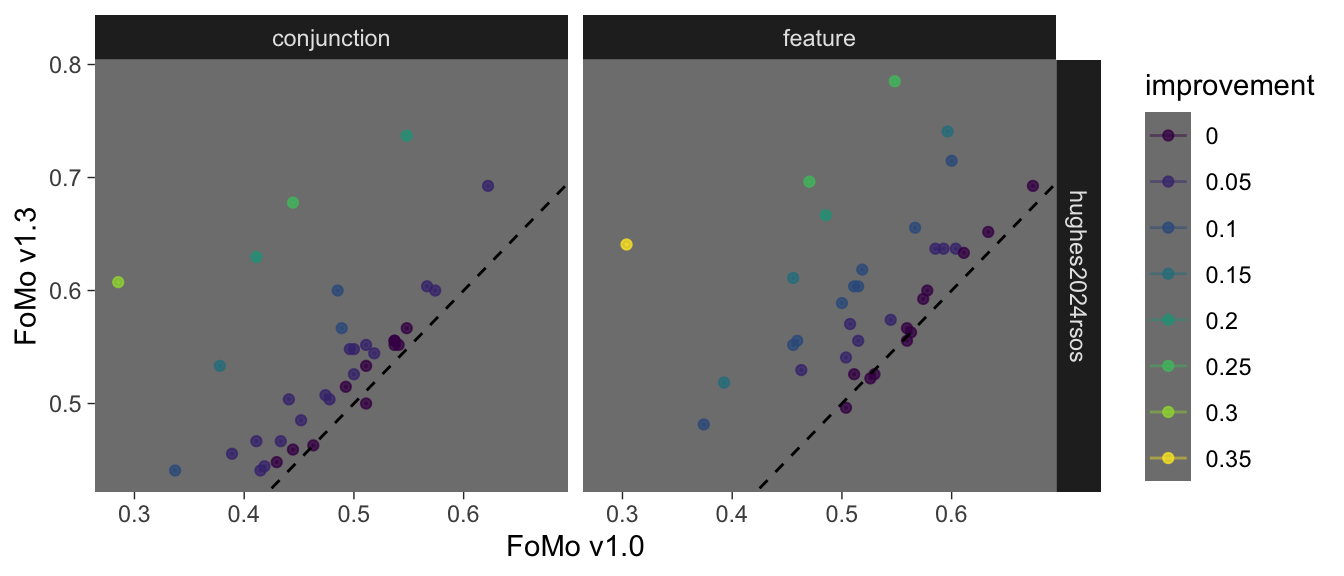
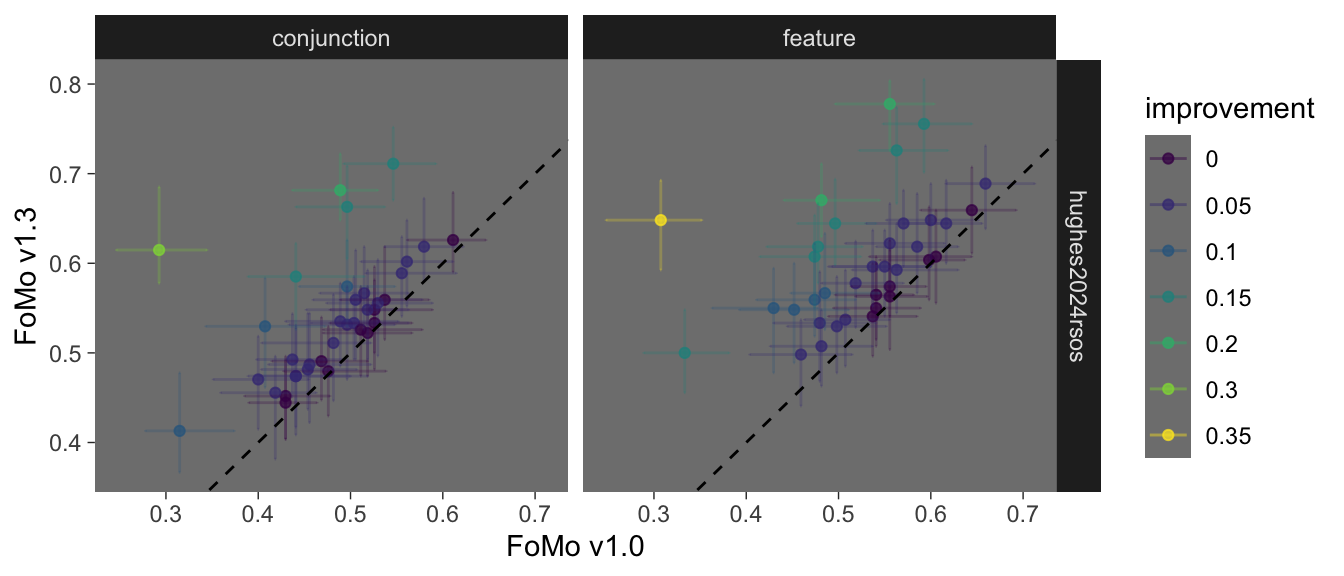
editing acc plot to stat_interval

diff --git a/examples/2_report_results.html b/examples/2_report_results.html
@@ -166,20 +166,12 @@ pre > code.sourceCode > span > a:first-child::before { text-decoration: underlin
 <span id="cb5-6"><a href="#cb5-6" aria-hidden="true" tabindex="-1"></a>  plt <span class="ot">&lt;-</span> <span class="fu">plot_model_accuracy_comparison</span>(ds, v1, v2, <span class="at">scratch_folder =</span> sf) </span>
 <span id="cb5-7"><a href="#cb5-7" aria-hidden="true" tabindex="-1"></a>  <span class="fu">print</span>(plt)</span>
 <span id="cb5-8"><a href="#cb5-8" aria-hidden="true" tabindex="-1"></a>}</span></code><button title="Copy to Clipboard" class="code-copy-button"><i class="bi"></i></button></pre></div>
-<div class="cell-output cell-output-stderr">
-<pre><code>Warning: Removed 2 rows containing missing values or values outside the scale range
-(`geom_point()`).</code></pre>
-</div>
 <div class="cell-output-display">
 <div>
 <figure class="figure">
 <p><img src="2_report_results_files/figure-html/unnamed-chunk-5-1.png" class="img-fluid figure-img" width="672"></p>
 </figure>
 </div>
-</div>
-<div class="cell-output cell-output-stderr">
-<pre><code>Warning: Removed 7 rows containing missing values or values outside the scale range
-(`geom_point()`).</code></pre>
 </div>
 <div class="cell-output-display">
 <div>
@@ -201,18 +193,18 @@ pre > code.sourceCode > span > a:first-child::before { text-decoration: underlin
 <h2 class="anchored" data-anchor-id="accuracy-throughout-a-trial">Accuracy throughout a trial</h2>
 <p>For model 1.3?</p>
 <div class="cell">
-<div class="sourceCode cell-code" id="cb8"><pre class="sourceCode r code-with-copy"><code class="sourceCode r"><span id="cb8-1"><a href="#cb8-1" aria-hidden="true" tabindex="-1"></a><span class="cf">for</span> (ds <span class="cf">in</span> datasets) {</span>
-<span id="cb8-2"><a href="#cb8-2" aria-hidden="true" tabindex="-1"></a>  folder <span class="ot">&lt;-</span> <span class="fu">paste0</span>(sf, <span class="st">"/post/"</span>, ds, <span class="st">"/"</span>)</span>
-<span id="cb8-3"><a href="#cb8-3" aria-hidden="true" tabindex="-1"></a>  pred <span class="ot">&lt;-</span> <span class="fu">readRDS</span>(<span class="fu">paste0</span>(folder, <span class="st">"pred_1_3.rds"</span>))</span>
-<span id="cb8-4"><a href="#cb8-4" aria-hidden="true" tabindex="-1"></a>  </span>
-<span id="cb8-5"><a href="#cb8-5" aria-hidden="true" tabindex="-1"></a>  pred<span class="sc">$</span>itemwise <span class="sc">%&gt;%</span> </span>
-<span id="cb8-6"><a href="#cb8-6" aria-hidden="true" tabindex="-1"></a>    <span class="fu">group_by</span>(condition, found, .draw, person) <span class="sc">%&gt;%</span></span>
-<span id="cb8-7"><a href="#cb8-7" aria-hidden="true" tabindex="-1"></a>    <span class="fu">summarise</span>(<span class="at">person_acc =</span> <span class="fu">mean</span>(model_correct), <span class="at">.groups =</span> <span class="st">"drop_last"</span>) <span class="sc">%&gt;%</span></span>
-<span id="cb8-8"><a href="#cb8-8" aria-hidden="true" tabindex="-1"></a>    <span class="fu">summarise</span>(<span class="at">accuracy =</span> <span class="fu">mean</span>(person_acc), <span class="at">.groups =</span> <span class="st">"drop_last"</span>) <span class="ot">-&gt;</span> acc</span>
-<span id="cb8-9"><a href="#cb8-9" aria-hidden="true" tabindex="-1"></a>  </span>
-<span id="cb8-10"><a href="#cb8-10" aria-hidden="true" tabindex="-1"></a>  plt_acc <span class="ot">&lt;-</span> <span class="fu">plot_model_accuracy</span>(acc)</span>
-<span id="cb8-11"><a href="#cb8-11" aria-hidden="true" tabindex="-1"></a>  <span class="fu">print</span>(plt_acc)</span>
-<span id="cb8-12"><a href="#cb8-12" aria-hidden="true" tabindex="-1"></a>}</span></code><button title="Copy to Clipboard" class="code-copy-button"><i class="bi"></i></button></pre></div>
+<div class="sourceCode cell-code" id="cb6"><pre class="sourceCode r code-with-copy"><code class="sourceCode r"><span id="cb6-1"><a href="#cb6-1" aria-hidden="true" tabindex="-1"></a><span class="cf">for</span> (ds <span class="cf">in</span> datasets) {</span>
+<span id="cb6-2"><a href="#cb6-2" aria-hidden="true" tabindex="-1"></a>  folder <span class="ot">&lt;-</span> <span class="fu">paste0</span>(sf, <span class="st">"/post/"</span>, ds, <span class="st">"/"</span>)</span>
+<span id="cb6-3"><a href="#cb6-3" aria-hidden="true" tabindex="-1"></a>  pred <span class="ot">&lt;-</span> <span class="fu">readRDS</span>(<span class="fu">paste0</span>(folder, <span class="st">"pred_1_3.rds"</span>))</span>
+<span id="cb6-4"><a href="#cb6-4" aria-hidden="true" tabindex="-1"></a>  </span>
+<span id="cb6-5"><a href="#cb6-5" aria-hidden="true" tabindex="-1"></a>  pred<span class="sc">$</span>itemwise <span class="sc">%&gt;%</span> </span>
+<span id="cb6-6"><a href="#cb6-6" aria-hidden="true" tabindex="-1"></a>    <span class="fu">group_by</span>(condition, found, .draw, person) <span class="sc">%&gt;%</span></span>
+<span id="cb6-7"><a href="#cb6-7" aria-hidden="true" tabindex="-1"></a>    <span class="fu">summarise</span>(<span class="at">person_acc =</span> <span class="fu">mean</span>(model_correct), <span class="at">.groups =</span> <span class="st">"drop_last"</span>) <span class="sc">%&gt;%</span></span>
+<span id="cb6-8"><a href="#cb6-8" aria-hidden="true" tabindex="-1"></a>    <span class="fu">summarise</span>(<span class="at">accuracy =</span> <span class="fu">mean</span>(person_acc), <span class="at">.groups =</span> <span class="st">"drop_last"</span>) <span class="ot">-&gt;</span> acc</span>
+<span id="cb6-9"><a href="#cb6-9" aria-hidden="true" tabindex="-1"></a>  </span>
+<span id="cb6-10"><a href="#cb6-10" aria-hidden="true" tabindex="-1"></a>  plt_acc <span class="ot">&lt;-</span> <span class="fu">plot_model_accuracy</span>(acc)</span>
+<span id="cb6-11"><a href="#cb6-11" aria-hidden="true" tabindex="-1"></a>  <span class="fu">print</span>(plt_acc)</span>
+<span id="cb6-12"><a href="#cb6-12" aria-hidden="true" tabindex="-1"></a>}</span></code><button title="Copy to Clipboard" class="code-copy-button"><i class="bi"></i></button></pre></div>
 <div class="cell-output-display">
 <div>
 <figure class="figure">
@@ -240,19 +232,19 @@ pre > code.sourceCode > span > a:first-child::before { text-decoration: underlin
 <section id="posterior-density" class="level1">
 <h1>Posterior Density</h1>
 <div class="cell">
-<div class="sourceCode cell-code" id="cb9"><pre class="sourceCode r code-with-copy"><code class="sourceCode r"><span id="cb9-1"><a href="#cb9-1" aria-hidden="true" tabindex="-1"></a>model_ver <span class="ot">&lt;-</span> <span class="st">"1_3"</span></span></code><button title="Copy to Clipboard" class="code-copy-button"><i class="bi"></i></button></pre></div>
+<div class="sourceCode cell-code" id="cb7"><pre class="sourceCode r code-with-copy"><code class="sourceCode r"><span id="cb7-1"><a href="#cb7-1" aria-hidden="true" tabindex="-1"></a>model_ver <span class="ot">&lt;-</span> <span class="st">"1_3"</span></span></code><button title="Copy to Clipboard" class="code-copy-button"><i class="bi"></i></button></pre></div>
 </div>
 <section id="main-parameters" class="level2">
 <h2 class="anchored" data-anchor-id="main-parameters">Main parameters</h2>
 <div class="cell">
-<div class="sourceCode cell-code" id="cb10"><pre class="sourceCode r code-with-copy"><code class="sourceCode r"><span id="cb10-1"><a href="#cb10-1" aria-hidden="true" tabindex="-1"></a><span class="cf">for</span> (ds <span class="cf">in</span> datasets) {</span>
-<span id="cb10-2"><a href="#cb10-2" aria-hidden="true" tabindex="-1"></a>  folder <span class="ot">&lt;-</span> <span class="fu">paste0</span>(sf, <span class="st">"/models/"</span>, ds, <span class="st">"/fit/"</span>)</span>
-<span id="cb10-3"><a href="#cb10-3" aria-hidden="true" tabindex="-1"></a>  m <span class="ot">&lt;-</span> <span class="fu">readRDS</span>(<span class="fu">paste0</span>(folder, model_ver, <span class="st">".model"</span>))</span>
-<span id="cb10-4"><a href="#cb10-4" aria-hidden="true" tabindex="-1"></a>  d <span class="ot">&lt;-</span> <span class="fu">import_data</span>(ds)</span>
-<span id="cb10-5"><a href="#cb10-5" aria-hidden="true" tabindex="-1"></a>  post <span class="ot">&lt;-</span> <span class="fu">extract_post</span>(m, d)</span>
-<span id="cb10-6"><a href="#cb10-6" aria-hidden="true" tabindex="-1"></a>  post_plt <span class="ot">&lt;-</span> <span class="fu">plot_model_fixed</span>(post) <span class="sc">+</span> <span class="fu">ggtitle</span>(ds)</span>
-<span id="cb10-7"><a href="#cb10-7" aria-hidden="true" tabindex="-1"></a>  <span class="fu">print</span>(post_plt)</span>
-<span id="cb10-8"><a href="#cb10-8" aria-hidden="true" tabindex="-1"></a>}</span></code><button title="Copy to Clipboard" class="code-copy-button"><i class="bi"></i></button></pre></div>
+<div class="sourceCode cell-code" id="cb8"><pre class="sourceCode r code-with-copy"><code class="sourceCode r"><span id="cb8-1"><a href="#cb8-1" aria-hidden="true" tabindex="-1"></a><span class="cf">for</span> (ds <span class="cf">in</span> datasets) {</span>
+<span id="cb8-2"><a href="#cb8-2" aria-hidden="true" tabindex="-1"></a>  folder <span class="ot">&lt;-</span> <span class="fu">paste0</span>(sf, <span class="st">"/models/"</span>, ds, <span class="st">"/fit/"</span>)</span>
+<span id="cb8-3"><a href="#cb8-3" aria-hidden="true" tabindex="-1"></a>  m <span class="ot">&lt;-</span> <span class="fu">readRDS</span>(<span class="fu">paste0</span>(folder, model_ver, <span class="st">".model"</span>))</span>
+<span id="cb8-4"><a href="#cb8-4" aria-hidden="true" tabindex="-1"></a>  d <span class="ot">&lt;-</span> <span class="fu">import_data</span>(ds)</span>
+<span id="cb8-5"><a href="#cb8-5" aria-hidden="true" tabindex="-1"></a>  post <span class="ot">&lt;-</span> <span class="fu">extract_post</span>(m, d)</span>
+<span id="cb8-6"><a href="#cb8-6" aria-hidden="true" tabindex="-1"></a>  post_plt <span class="ot">&lt;-</span> <span class="fu">plot_model_fixed</span>(post) <span class="sc">+</span> <span class="fu">ggtitle</span>(ds)</span>
+<span id="cb8-7"><a href="#cb8-7" aria-hidden="true" tabindex="-1"></a>  <span class="fu">print</span>(post_plt)</span>
+<span id="cb8-8"><a href="#cb8-8" aria-hidden="true" tabindex="-1"></a>}</span></code><button title="Copy to Clipboard" class="code-copy-button"><i class="bi"></i></button></pre></div>
 <div class="cell-output-display">
 <div>
 <figure class="figure">
@@ -279,14 +271,14 @@ pre > code.sourceCode > span > a:first-child::before { text-decoration: underlin
 <section id="directional-parameters" class="level2">
 <h2 class="anchored" data-anchor-id="directional-parameters">Directional parameters</h2>
 <div class="cell">
-<div class="sourceCode cell-code" id="cb11"><pre class="sourceCode r code-with-copy"><code class="sourceCode r"><span id="cb11-1"><a href="#cb11-1" aria-hidden="true" tabindex="-1"></a><span class="cf">for</span> (ds <span class="cf">in</span> datasets) {</span>
-<span id="cb11-2"><a href="#cb11-2" aria-hidden="true" tabindex="-1"></a>  folder <span class="ot">&lt;-</span> <span class="fu">paste0</span>(sf, <span class="st">"/models/"</span>, ds, <span class="st">"/fit/"</span>)</span>
-<span id="cb11-3"><a href="#cb11-3" aria-hidden="true" tabindex="-1"></a>  m <span class="ot">&lt;-</span> <span class="fu">readRDS</span>(<span class="fu">paste0</span>(folder, model_ver, <span class="st">".model"</span>))</span>
-<span id="cb11-4"><a href="#cb11-4" aria-hidden="true" tabindex="-1"></a>  d <span class="ot">&lt;-</span> <span class="fu">import_data</span>(ds)</span>
-<span id="cb11-5"><a href="#cb11-5" aria-hidden="true" tabindex="-1"></a>  post <span class="ot">&lt;-</span> <span class="fu">extract_post</span>(m, d)</span>
-<span id="cb11-6"><a href="#cb11-6" aria-hidden="true" tabindex="-1"></a>  plt <span class="ot">&lt;-</span> <span class="fu">plot_model_theta</span>(post, <span class="at">nrow =</span> <span class="dv">1</span>) <span class="sc">+</span> <span class="fu">ggtitle</span>(ds)</span>
-<span id="cb11-7"><a href="#cb11-7" aria-hidden="true" tabindex="-1"></a>  <span class="fu">print</span>(plt)</span>
-<span id="cb11-8"><a href="#cb11-8" aria-hidden="true" tabindex="-1"></a>}</span></code><button title="Copy to Clipboard" class="code-copy-button"><i class="bi"></i></button></pre></div>
+<div class="sourceCode cell-code" id="cb9"><pre class="sourceCode r code-with-copy"><code class="sourceCode r"><span id="cb9-1"><a href="#cb9-1" aria-hidden="true" tabindex="-1"></a><span class="cf">for</span> (ds <span class="cf">in</span> datasets) {</span>
+<span id="cb9-2"><a href="#cb9-2" aria-hidden="true" tabindex="-1"></a>  folder <span class="ot">&lt;-</span> <span class="fu">paste0</span>(sf, <span class="st">"/models/"</span>, ds, <span class="st">"/fit/"</span>)</span>
+<span id="cb9-3"><a href="#cb9-3" aria-hidden="true" tabindex="-1"></a>  m <span class="ot">&lt;-</span> <span class="fu">readRDS</span>(<span class="fu">paste0</span>(folder, model_ver, <span class="st">".model"</span>))</span>
+<span id="cb9-4"><a href="#cb9-4" aria-hidden="true" tabindex="-1"></a>  d <span class="ot">&lt;-</span> <span class="fu">import_data</span>(ds)</span>
+<span id="cb9-5"><a href="#cb9-5" aria-hidden="true" tabindex="-1"></a>  post <span class="ot">&lt;-</span> <span class="fu">extract_post</span>(m, d)</span>
+<span id="cb9-6"><a href="#cb9-6" aria-hidden="true" tabindex="-1"></a>  plt <span class="ot">&lt;-</span> <span class="fu">plot_model_theta</span>(post, <span class="at">nrow =</span> <span class="dv">1</span>) <span class="sc">+</span> <span class="fu">ggtitle</span>(ds)</span>
+<span id="cb9-7"><a href="#cb9-7" aria-hidden="true" tabindex="-1"></a>  <span class="fu">print</span>(plt)</span>
+<span id="cb9-8"><a href="#cb9-8" aria-hidden="true" tabindex="-1"></a>}</span></code><button title="Copy to Clipboard" class="code-copy-button"><i class="bi"></i></button></pre></div>
 <div class="cell-output-display">
 <div>
 <figure class="figure">
